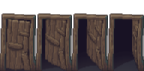
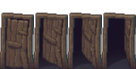
Five from a screenshot: the road, the bar, the sign, the bays, the dark stone
**The dark road was a hole in the ground.** Measured: grass luma 125, the pale
paving 117 — which is why it vanishes into a lawn properly — and the dark paving
60, less than half as bright. It was made to be a COURTYARD lying against a black
keep, where it belonged, and I reused it as a road across open grass without
looking at it on the ground it would lie on. Same mistake as the tower: right
piece, wrong context. It is 93 now: clearly darker, still a surface.

**The road stopped short of both doors.** It dropped any tile a building stood
on, which took a bite out of each end — a tile short of the door it was going to
and a tile short of the gate it came from, so it floated in the middle joining
nothing to nothing. The two ends are the road.

**The keep's health bar is gone.** The top of the screen carries one already, and
this one was drawn in the OWNER'S colour rather than by how hurt it is, so a red
empire's untouched keep wore a full red bar and read as nearly dead. The cross
over a fallen keep stays — that is not a measurement.

**The sign was drawn through the weapon rack** on the barracks, and through the
timber on the siege workshop. Neither touches its door, so the door rule could
never have caught it. There is a rule for it now: props are ALLOWED to overlap —
a barrel in front of a haystack is how depth is made — but two SMALL things
sharing a third of the smaller one's area is a collision, not occlusion. It found
[…]

diff --git a/tools/make-building.js b/tools/make-building.js
@@ -183,6 +183,33 @@ function auditRecipe(name) {
       out.push(`${name}: ${o.label} covers the door by ${ov.toFixed(2)} tiles`);
     }
   }
+  // Two things hung on the same wall.
+  //
+  // The trade sign was drawn straight through the weapon rack on the barracks:
+  // both were placed against the door's left bay and nobody compared them. The
+  // door rule above would never have caught it — neither touches the door.
+  //
+  // Props are ALLOWED to overlap: a barrel in front of a haystack is how depth
+  // is made, and half the composition rules in DEPTH.md depend on it. What is
+  // not allowed is two SMALL things sharing much of their area, which is not
+  // occlusion, it is a collision. A third of the smaller one is the line — the
+  // sign lying across the barracks rack shared 45% and a half-share missed it.
+  for (let i = 0; i < drawn.length; i++) {
+    for (let j = i + 1; j < drawn.length; j++) {
+      const a = drawn[i], b = drawn[j];
+      if (a.kind !== 'prop' || b.kind !== 'prop') continue;
+      if (!overlaps(a, b)) continue;
+      const w = Math.min(a.x + a.w, b.x + b.w) - Math.max(a.x, b.x);
+      const h = Math.min(a.y + a.h, b.y + b.h) - Math.max(a.y, b.y);
+      const smaller = Math.min(a.w * a.h, b.w * b.h);
+      const share = (w * h) / smaller;
+      if (share > 0.33) {
+        out.push(`${name}: ${a.label} and ${b.label} are on top of each other ` +
+          `(${(share * 100).toFixed(0)}% of the smaller one)`);
+      }
+    }
+  }
+
   if (roofs.length) {
     const rx0 = Math.min(...roofs.map(r => r.x)), rx1 = Math.max(...roofs.map(r => r.x + r.w));
     const ry1 = Math.max(...roofs.map(r => r.y + r.h));
@@ -567,10 +594,10 @@ const RECIPES = {
   barracks: (dst) => {
     slab(dst, 88, 0.04, 2, 4, 4);                // timber frame on a stone plinth
     hipRoof(dst, 'slate', 0, 0);                 // slate, ridge and two slopes
-    door(dst, 'studded', 2.05, 6);
-    stamp(dst, 'B', 1, 0, 2.8, 4.15, 1, 1.4);    // window, wall under it
-    sign(dst, 'sword', 0.5, 4.2);
-    stamp(dst, 'C', 0, 8, 0.15, 4.5, 1, 2);      // swords on a rack by the door
+    door(dst, 'studded', 2.65, 6);
+    stamp(dst, 'B', 1, 0, 3.2, 4.15, 1, 1.4);    // window, wall under it
+    sign(dst, 'sword', 1.15, 4.15);
+    stamp(dst, 'C', 0, 8, 0.1, 4.35, 1, 2);       // swords on a rack by the door
   },
 
   // Blue slate over pale ashlar with a gilt course: money should look like money,
@@ -601,10 +628,10 @@ const RECIPES = {
     slab(dst, 89, 0.04, 2, 4, 4);                // timber frame
     hipRoof(dst, 'wood', 0, 0);
     chimney(dst, 'stone', 2.6, 1.35);
-    door(dst, 'rough', 2.05, 6);
-    stamp(dst, 'B', 1, 0, 2.8, 4.15, 1, 1.4);    // window
-    sign(dst, 'anvil', 0.5, 4.2);
-    stamp(dst, 'C', 8, 4, 0.1, 4.5, 1, 2);       // cut timber by the door
+    door(dst, 'rough', 2.65, 6);
+    stamp(dst, 'B', 1, 0, 3.2, 4.15, 1, 1.4);    // window
+    sign(dst, 'anvil', 1.15, 4.15);
+    stamp(dst, 'C', 8, 4, 0.1, 4.35, 1, 2);      // cut timber by the door
   },
 
   // The keep, put together out of the same pieces as everything else: the

diff --git a/public/client.js b/public/client.js
@@ -1815,14 +1815,19 @@ function rebuildPaths(msg) {
     for (const b of p.buildings) {
       if (!b.type || b.type === 'castle' || b.type === 'wall' || b.builtin) continue;
       if (Math.hypot(b.x - keep.x, b.y - keep.y) > radius) continue;
+      // From the doorstep to the gate step, both ends included. It used to
+      // drop any tile a building stood on, which took a bite out of BOTH ends
+      // — the road stopped a tile short of the door it was supposed to reach
+      // and a tile short of the gate it came from, so it floated in the middle
+      // joining nothing to nothing.
       const run = trackBetween({ x: b.x, y: b.y + 1 }, gate);
       run.forEach((t, i) => {
         const key = t.x + ',' + t.y;
         if (next.has(key)) return;
-        // Not under a building, but everywhere else along the run: the ground
-        // no longer carries any paving of its own, so the track is the only
-        // stone there is and it has to reach the door.
-        if (occupiedSet.has(key)) return;
+        // The doorstep and the gate step are the two ends of the road and both
+        // sit on a building's own plot, so they must NOT be dropped as occupied.
+        const isEnd = i === 0 || i === run.length - 1;
+        if (!isEnd && occupiedSet.has(key)) return;
         if (!isMarchable(t.x, t.y)) return;          // never over water or rock
         next.set(key, pathTiles.has(key) ? pathTiles.get(key) : clock + i * PATH_LAY_STEP);
       });
@@ -2453,8 +2458,15 @@ function drawPlayerBuilding(b, p, ts, hasWall) {
   // you whether they are working it.
   if (b.underConstruction || b.upgrading) constructionBars.push({ b, px, py });
   if (b.type === 'castle') {
-    if (p.alive) drawHpBar(px - ts / 2, py - ts * 1.15, ts, b.hp, b.maxHp, color);
-    else {
+    // No health bar over the keep. The top of the screen carries one already,
+    // and this one was drawn in the OWNER'S colour rather than by how hurt it
+    // is — so a red empire's untouched keep wore a full red bar and read as
+    // nearly dead. Two readings of the same number, and the wrong one was the
+    // one lying across the artwork.
+    //
+    // The cross for a fallen keep stays: that is not a measurement, it is the
+    // one thing that has to be legible from across the map.
+    if (!p.alive) {
       ctx.strokeStyle = '#000'; ctx.lineWidth = 2; ctx.beginPath();
       ctx.moveTo(px - ts / 2, py - ts / 2); ctx.lineTo(px + ts / 2, py + ts / 2);
       ctx.moveTo(px + ts / 2, py - ts / 2); ctx.lineTo(px - ts / 2, py + ts / 2);

diff --git a/tools/build-assets.js b/tools/build-assets.js
@@ -310,21 +310,22 @@ function buildTerrain() {
     // did when the three were recolours of a single hand-classified tileset.
     lookup = built.lookup;
     files[name] = write(built.sheet, 'terrain', name + '.png');
-    // The apron a building stands on, again in the black stone the dark keeps
-    // are built from.
+    // The dark empires' stone, for the road they lay.
     //
-    // Darkened rather than cut from another block, and that is not laziness.
-    // The apron is A2 kind 18 — cobble drawn INTO grass, so its edge quadrants
-    // carry grass and a patch of it feathers away instead of ending on a
-    // rectangle. Every dark paving in A2 is solid to the edge: laid as an apron
-    // one would put a hard-edged slab on the lawn, which is the exact thing the
-    // apron exists to avoid. So it is the same stone in less light, by the same
-    // numbers the dark castle's gate is taken down by, which is what makes the
-    // floor and the keep standing on it agree.
+    // It was taken down by the same numbers the dark castle's gate is — half
+    // light — which was right while this was a COURTYARD, lying against black
+    // stonework where it belonged. As a road across open grass it was a hole:
+    // measured, luma 60 against the grass's 125, less than half as bright. It
+    // read as a pit somebody had dug, not as a path.
+    //
+    // A road has to sit near the ground it crosses. The pale paving is luma 117
+    // against grass at 125, which is why it disappears into a lawn properly.
+    // This keeps the cool tint that says whose stone it is and lands around 90 —
+    // clearly darker, still a surface.
     if (name === 'pave') {
       files.paveDark = write(
         ops.mapPixels(built.sheet, (r, g, b, a) => [
-          Math.round(r * 0.5), Math.round(g * 0.52), Math.round(b * 0.56), a]),
+          Math.round(r * 0.78), Math.round(g * 0.80), Math.round(b * 0.86), a]),
         'terrain', 'pave-dark.png');
     }
   }
